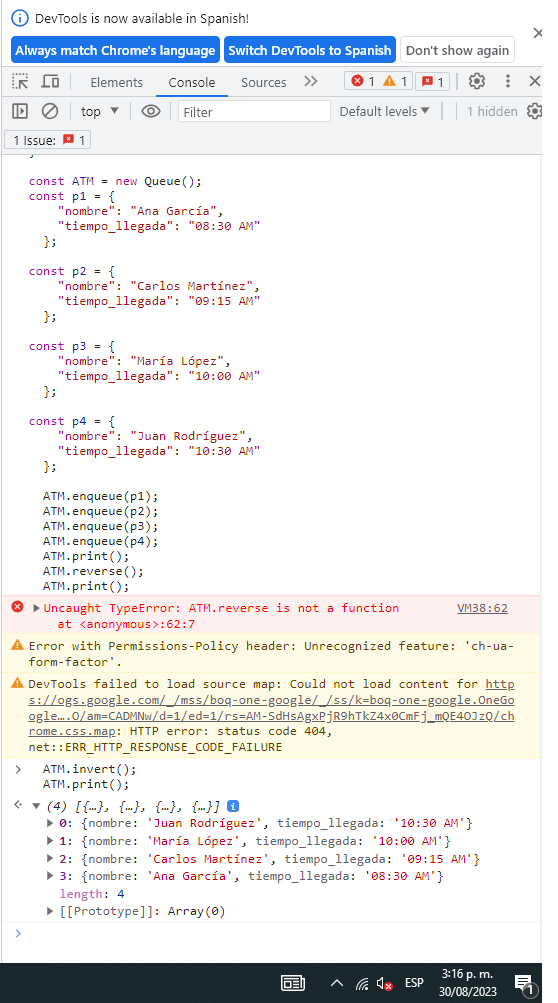
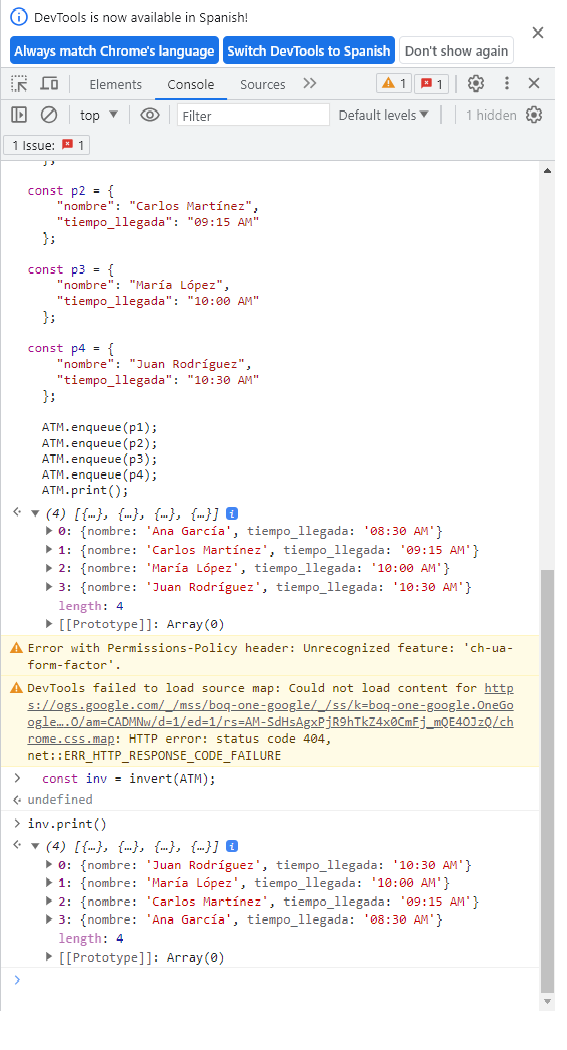
Pequeños cambios, correcion de imagen

Changed region(s): [[0.0, 0.0, 0.9749, 1.0]]

diff --git a/js/invCola.js b/js/invCola.js
@@ -27,11 +27,21 @@ class Queue{
         return this.queue;
     }
 
-    invert(){
-        return this.queue.reverse();
+    pop(){
+        return this.queue.pop();
     }
 
 } 
+
+function invert(queue){
+    const invQueue = new Queue();
+    const l = queue.size();
+    for(let i = 0; i<l;i++){
+        let obj = queue.pop();
+        invQueue.enqueue(obj);
+    }
+    return invQueue;
+}
 
 const ATM = new Queue();
 const p1 = {
@@ -59,5 +69,5 @@ const p4 = {
   ATM.enqueue(p3);
   ATM.enqueue(p4);
   ATM.print();
-  ATM.invert();
-  ATM.print();
+  const inv = invert(ATM);
+  

diff --git a/js/invPila.js b/js/invPila.js
@@ -56,9 +56,13 @@ const book4 = {
 
 function invert(stack){
     const invStack = new Stack();
-    for(let i = -1; i<=stack.size()+1;i++){
+    const l = stack.size();
+    for(let i = 0; i<l;i++){
         let obj = stack.pop();
         invStack.push(obj);
     }
     return invStack;
 }
+
+const inv = invert(Books);
+inv.print();
